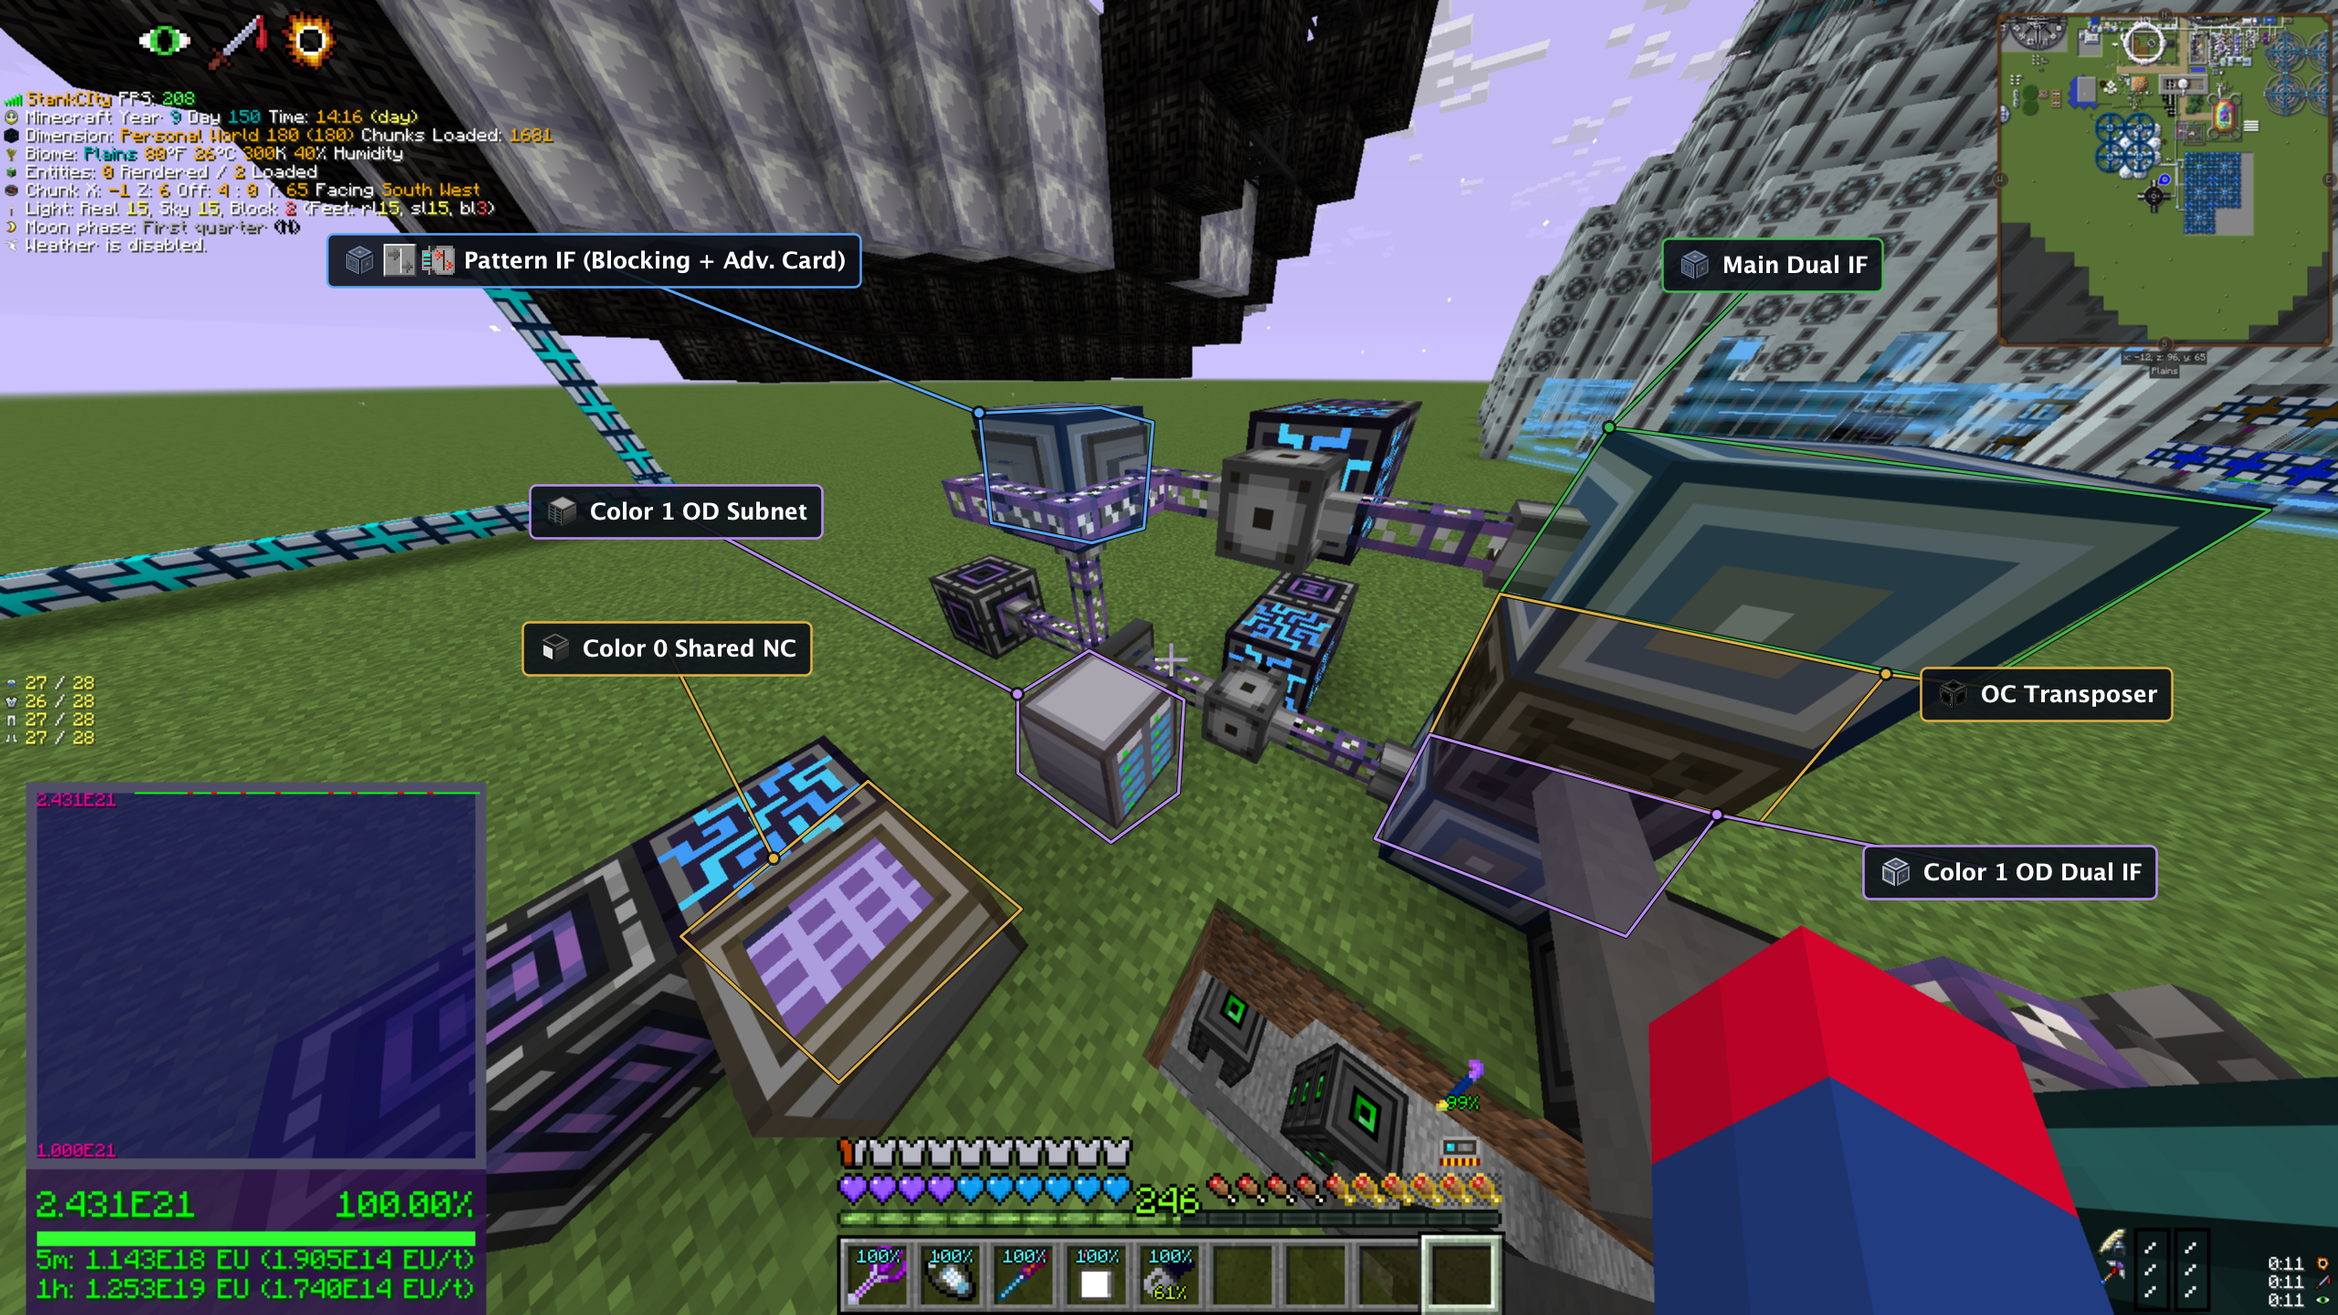
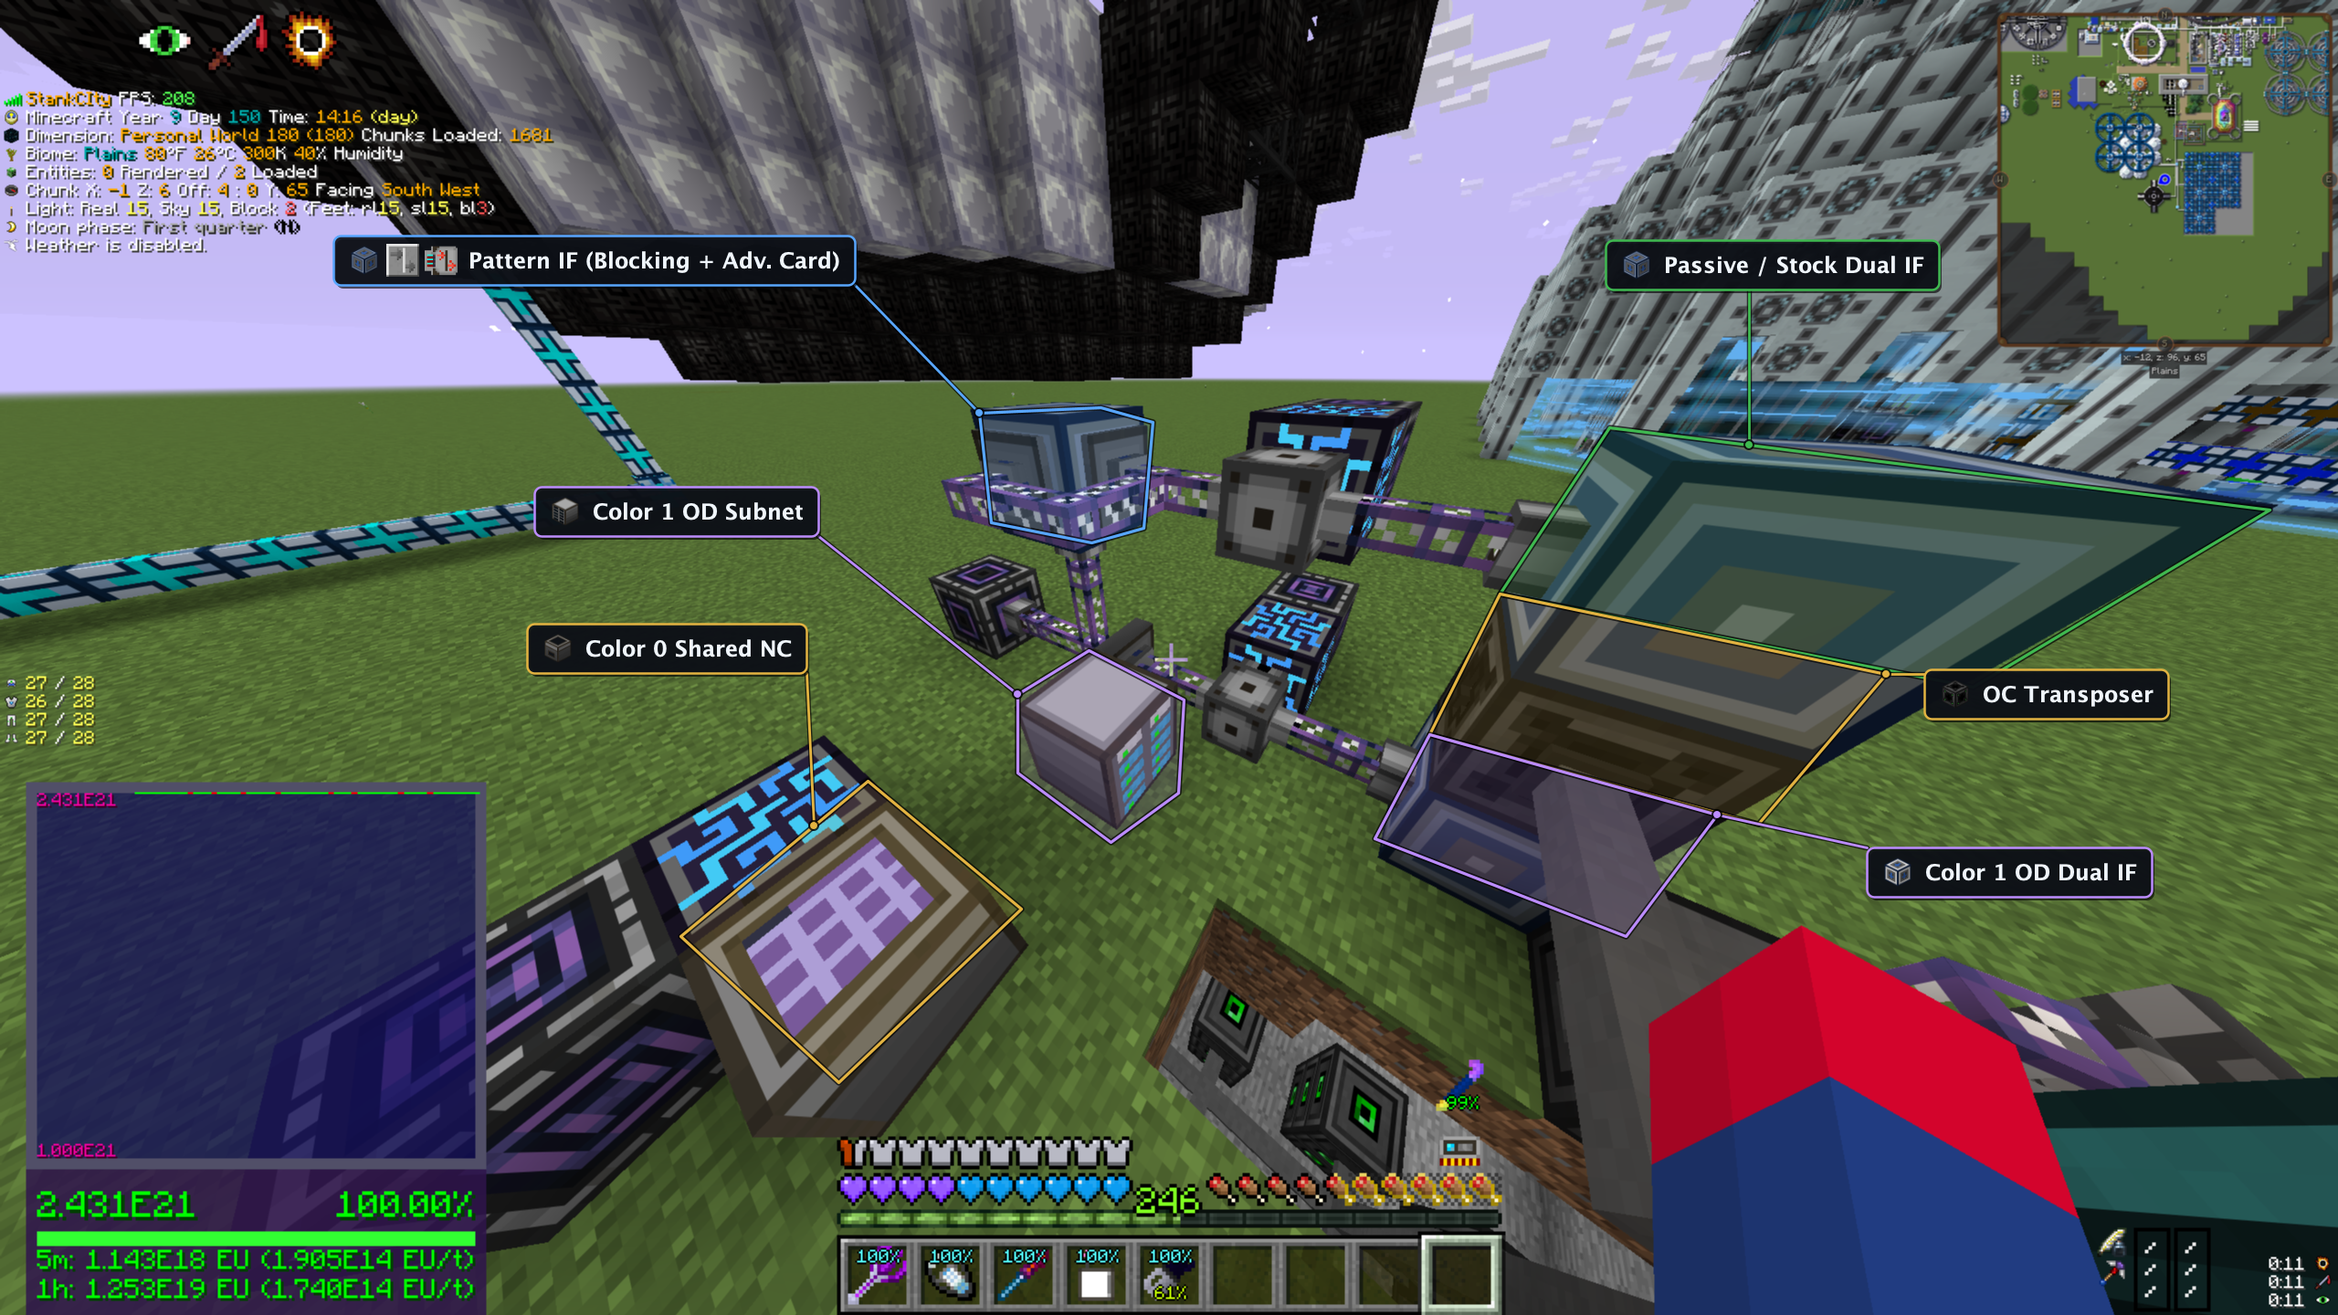
Lead README with core concepts and shared-vs-dedicated breakdown

diff --git a/README.md b/README.md
@@ -1,92 +1,103 @@
-# GTNH DTPF Automation Controller (OpenComputers)
+# GTNH DTPF OpenComputers Controller
 
-A self-configuring **OpenComputers (Lua 5.3 / OpenOS)** controller for automating **Dimensionally Transcendent Plasma Forges (DTPFs)** in **GregTech: New Horizons 2.9+**.
+Autonomous OpenComputers (`Lua 5.3`) controller for **GregTech: New Horizons (GTNH 2.9+)** Dimensionally Transcendent Plasma Forges (**DTPFs**). It dynamically dispatches passive crafting, yields cleanly to AE2 On-Demand crafts, handles catalyst ramp/convergence costs, and scales from 1 DTPF to an entire base from a single UI.
 
-Handles passive AE2 stock targets, 24/7 loops, **AE2 On-Demand autocrafting priority**, optional Convergence automation, Coil Tier & 8h warmup tracking, DTR/catalyst reserve floors, and an optional Transposer catalyst bridge in a 4-tab `160x50` touch GUI.
+### `[1] OVERVIEW` — Global Reserves, Catalyst Tier & Active DTPFs
+![DTPF Control Center Overview tab showing reserve bars and active DTPFs](screenshots/gui_overview.png)
 
-### `[1] OVERVIEW` — Health, Fleet, Queue, Reserves & Activity
-![Overview Tab](screenshots/gui_overview.png)
-
-### `[2] FLEET` — Per-DTPF Cards, Global Policy & Priority Queue
-![Fleet Tab](screenshots/gui_fleet.png)
+### `[2] FLEET` — Per-DTPF Channels, Roles & Live Status
+![DTPF Control Center Fleet tab showing per-unit status and channel bindings](screenshots/gui_fleet.png)
 
 ---
 
-## 1. Install & Update
+## 1. How It Works (Core Concepts)
 
-Run on OpenOS from `/home` with an **Internet Card**:
+The controller keeps **Main AE2**, **On-Demand (`Color 1`)**, **Passive (`Color 2`)**, and **Non-Consumed (`Color 0`)** cleanly separated so AE2 autocrafts never fight passive production:
+
+- **On-Demand Subnet (`Color 1`, White) — Full-Bonus Patterns:**
+  AE2 patterns are encoded at the **full `50%` catalyst bonus** through a Main-to-`Color 1` Pattern `ME Dual Interface` with **`Blocking Mode: ON` + `Advanced Blocking Card`**. Whenever an AE2 craft pushes ingredients onto `Color 1`, OC detects it via an Adapter and pauses/yields passive queues so the DTPF runs the On-Demand craft immediately.
+- **Passive Subnet (`Color 2`, Orange) — Bi-Directional Bridge + OC Hatch Filters:**
+  An unfiltered **Bi-Directional (`Extract + Insert`)** `ME Storage Bus` + `ME Fluid Storage Bus` bridge Main AE2 (via an unfiltered Main `ME Dual Interface`) onto the Passive Subnet (`Color 2`), making all Main AE2 items/fluids visible without creating a storage feedback loop and providing a clean return path back into Main AE2 if anything is returned onto the Passive Subnet. Each DTPF's `Color 2` `Stocking Input Hatch (ME)` and `Stocking Input Bus (ME)` keep **`autoPull = OFF`**, and OC sets each unit's virtual filter slots (`setConfiguration`) so every DTPF pulls only its assigned passive recipe (or clears to empty when idle or yielded).
+- **OC Transposer — Startup / Ramp & Convergence Catalyst:**
+  Because AE2 patterns are encoded at full `50%` catalyst bonus while cold startups, tier upgrades, or Convergence runs need extra catalyst up front, an OC **Transposer** bridges Main AE2 -> `Color 1` Dual Interface to inject the exact catalyst delta automatically.
+- **Non-Consumed Aux (`Color 0`, Unpainted) & Shared Outputs:**
+  All non-consumed items (Programmed Circuits, Lenses, Hypervisors, Cores, Frames/Casings) sit in a shared `Color 0` `Stocking Input Bus (ME)`, while standard `ME Output Hatch/Bus` bricks dump all products straight back into Main AE2.
+
+---
+
+## 2. What Each DTPF Shares vs. Needs Dedicated
+
+Zero OC blocks or cables touch any DTPF. Every MFU (`Upgrade MF`) is bound to the front face with `Sneak + Right-Click` and placed in Adapters back in your OC room (wireless up to `512` blocks).
+
+| Channel / Subsystem | Color | Shared Across DTPFs? | Physical AE2 / GT Hardware | OC Hardware Per DTPF |
+| :--- | :--- | :--- | :--- | :--- |
+| **Outputs** | Default | **Yes (Wallshared)** | Shared `ME Output Hatch` + `ME Output Bus` -> Main AE2 | `0` |
+| **Non-Consumed Aux** | `Color 0` (Unpainted) | **Yes (Wallshared)** | Shared `Stocking Input Bus (ME)` holding NC catalysts/circuits/lenses | `0` |
+| **On-Demand (OD)** | `Color 1` (White) | **Yes (Wallshared) or 1:1** | `Stocking Input Hatch (ME)` + `Stocking Input Bus (ME)` on `Color 1` | `0` per DTPF (`1` Adapter on OD Dual IF, or `1` per OD mini-subnet) |
+| **Passive Channel** | `Color 2` (Orange) | **Dedicated per DTPF** | Dedicated `Stocking Input Hatch (ME)` + `Stocking Input Bus (ME)` (`autoPull = OFF`) | **`3` Wireless MFUs** (`1` Controller + `1` Hatch + `1` Bus) in `3` Adapters |
+
+> Prefer **0 passive MFUs** (or grouping many DTPFs onto shared passive AE2 channels)? Option B uses a Storage-Bus subnet bridge instead of per-DTPF passive MFUs — see [DESIGN.md](DESIGN.md) for the comparison.
+
+---
+
+## 3. Setup Visuals
+
+### Underside Wallsharing — Shared Outputs, Shared `Color 0` NC, `Color 1` OD & `Color 2` Passive
+![Wallshared DTPF underside hatches and buses showing shared outputs, NC, OD, and dedicated passive hatches](screenshots/dtpf_wallsharing_underside.png)
+
+### AE2 Bridge Room — `Color 0` NC, `Color 1` OD Pattern IF + Transposer & Passive / Stock Dual IF
+![AE2 subnet bridge showing Pattern IF with blocking card, OD Dual IF, OC Transposer, and Passive / Stock Dual IF](screenshots/ae2_subnets_and_bridge.png)
+
+### OC Wireless MFU Room — `3` MFU Adapters per DTPF + Passive / OD Dual-IF Adapters
+![OC adapter room showing stacks of 3 MFU adapters per DTPF and cable back to server rack](screenshots/oc_wireless_mfu_room.png)
+
+---
+
+## 4. Install & First Boot
+
+Requires **Lua 5.3** (`Sneak + Right-Click` a **Tier 3 CPU / APU Tier 3**), **`2x Memory (Tier 3.5)`**, **`HDD Tier 2 (2 MB)`**, and an **Internet Card** (or `--local` for offline/floppy installs).
 
 ```sh
 wget -f https://raw.githubusercontent.com/Jimbo-Coder/gtnh-dtpf-control/main/install.lua && install
 ```
 
-- **Safe update (settings untouched):** `dtpf --update` stages files as `.tmp`, validates syntax with `load()`, and aborts cleanly on error.
-- **Survives folder wipes:** Settings save to `/home/dtpf/config.cfg` and auto-mirror to `/home/config.dtpf.bak` (restored automatically on reinstall).
-- **No Internet Card:** Copy the repo folder to OpenOS (e.g. `/home/dtpf_src`) and run `/home/dtpf_src/install.lua --local /home/dtpf_src`.
+1. Run `dtpf` (starts **PAUSED** on fresh config so nothing runs unconfigured).
+2. Open **`Tab 4 (SETUP)`** and click **`[ 1:1 PAIR DTPFS ]`** (and **`[ 1:1 PAIR OD ]`** if using separate OD subnets) — OC auto-pairs Controllers, Hatches, and Buses by 3D coordinates.
+3. Verify readouts via `dtpf --check`, then click **`[ARM / RESUME]`** to begin autonomous scheduling.
+
+Useful CLI commands:
+- `dtpf` — Launch 160x50 Control Center GUI
+- `dtpf --check` — Read-only hardware, AE2 stock, and scheduler dry-run check
+- `dtpf --lock` — Force `autoPull = OFF` on all passive `Stocking Input Hatch/Bus (ME)`
+- `dtpf --worker` — Run headless Relay Mode worker daemon on additional servers
+- `dtpf --update` — Pull updates from GitHub while backing up and preserving `/home/dtpf/config.cfg`
 
 ---
 
-## 2. OC Requirements & DTPF Scaling
+## 5. OC Scaling & DTPF Limits
 
-**Minimum OC parts:** **Tier 3 CPU (or APU) in Lua 5.3** (`Sneak + Right-Click` in hand), **`2x` Memory Tier 3.5**, **HDD Tier 2 (`2 MB`) + OpenOS**, **Tier 3 GPU + Screen (`160x50`)**, optional **Internet Card**.
+Because each DTPF uses `3` components in 1:1 MFU mode (Controller + Passive Hatch + Passive Bus) alongside shared adapters and system components:
 
-| OC Setup | Component Limit | Max DTPFs (`3` MFUs/DTPF) | Notes |
+| OC Hardware Tier | Component Budget | Practical DTPF Limit | How It Scales |
 | :--- | :--- | :--- | :--- |
-| **Tier 3 Computer Case** | `16` | **Up to `2` DTPFs** | Starter case (`6` DTPF MFUs + display/HDD/AE2). |
-| **1x Tier 3 Server** *(in a Rack)* | `64` *(w/ 3x Bus T3)* | **Up to `~18` DTPFs** | Single-server sweet spot (`54` DTPF MFUs + AE2/screen). |
-| **1x Full Server Rack** *(1 Master + 3 `--worker` Servers)* | `4 x 64 = 256` | **Up to `~78` DTPFs from 1 Rack** | Keep each Server's Adapter I/O face separate; link only their Network Card lines via **Rack Relay Mode** (`+20` DTPFs per headless `--worker`). |
-| **Multiple Server Racks** | `+256` / Rack | **`80–150+` DTPFs** | Already supported: bridge Rack Relay faces over an OC Cable (see [`DESIGN.md`](DESIGN.md)). |
+| **Tier 3 Case** | `16` components | **Up to `2` DTPFs** | Single computer case setup |
+| **1x Server (Comp. Bus T3)** | `64` components | **Up to `~18` DTPFs** | Single server in a Server Rack |
+| **1x Full Server Rack** | `4x 64` (Relay Mode) | **Up to `~78` DTPFs** | `1` GUI coordinator + `3` headless `dtpf --worker` servers inside one rack (enable **Relay Mode** in the Rack GUI) |
+| **Multi-Rack (OC Cable)** | Unlimited racks (`port 4104`) | **`80–150+` DTPFs** | Chain extra Server Racks running headless `dtpf --worker` servers over normal OC cables; the coordinator discovers them automatically |
 
 ---
 
-## 3. Simple Physical Setup
+## 6. Convergence Control
 
-Everything is auto-discovered by component type and 3D coordinates — **no manual UUID config needed**.
-
-1. **`Color 2` (Orange) — Passive (`1` Stocking Hatch + `1` Stocking Bus per DTPF, never wallshared):**
-   Wire straight to your **Main AE2 net** (`autoPull = OFF` — run `dtpf --lock` before connecting). Bind **`3` Wireless MFUs** per DTPF (`Controller` + `Color 2 Hatch` + `Color 2 Bus`) and put them in Adapters back at your OC Rack (`0` OC blocks touching your DTPFs).
-2. **`Color 1` (White) — On-Demand AE2 Patterns *(wallsharable)*:**
-   Main AE2 Pattern Dual Interface (**`Blocking Mode: ON` + `Advanced Blocking Card`**) pushing into an isolated **Color 1** subnet feeding `Color 1` Stocking Hatch + Bus on the DTPFs. Whenever an AE2 craft enters `Color 1`, OC automatically pauses passives so your pattern runs next.
-3. **`Color 0` (Unpainted) — Shared Non-Consumed Items *(wallsharable)*:**
-   Small unpainted subnet holding shared Programmed Circuits, Lenses, Hypervisor Matrices, Hi-Computation Station T5, and Bending Cores.
-4. **AE2 Readers (+ Optional Transposer Catalyst Bridge):**
-   Put `1` Adapter/MFU on an unfiltered **Main Dual IF** (reads stocks) and `1` on the **Color 1 OD Dual IF** (detects crafts). Optionally sandwich `1` **OC Transposer** between them so OC tops up catalysts automatically for patterns without catalyst fluids.
-
-![AE2 Subnets and Transposer Bridge](screenshots/ae2_subnets_and_bridge.png)
-![DTPF Wallsharing Layout](screenshots/dtpf_wallsharing_underside.png)
-![Wireless MFU Adapter Room](screenshots/oc_wireless_mfu_room.png)
+Full automated Tier 2 **Catalyst Convergence** control (`isConvergence`, target catalyst / convergence tier management) uses [`DriverDTPF` (GTNewHorizons/OpenComputers#228)](https://github.com/GTNewHorizons/OpenComputers/pull/228). If that PR is not yet included in your GTNH build, the controller still installs cleanly and falls back gracefully to standard Tier 0/1 scheduling with read-only convergence visibility where supported.
 
 ---
 
-## 4. First Boot
+## 7. Logs, Tooling & Docs
 
-```sh
-dtpf --lock    # Locks autoPull = OFF on passive Stocking Hatches/Buses
-dtpf --check   # Read-only Raw Inputs -> Decisions -> Outputs diagnostic
-dtpf           # Launch 160x50 GUI (starts safely in PAUSED mode)
-```
+![DTPF Control Center live log modal showing recent scheduling events](screenshots/gui_log_modal.png)
 
-Verify **`[4] SETUP`** shows `[OK]`, set stock targets in **`[3] RECIPES`** / **`[2] FLEET`**, then click **`[○ PAUSED: SAFE]` -> `[● ARMED: AUTO]`**.
-
----
-
-## 5. Convergence Control (Stock GTNH 2.9 vs. OC PR #228)
-
-- **Stock GTNH 2.9 (`gt_machine`):** Works out of the box — full passive scheduling, On-Demand priority, Work control, Coil/Warmup tracking, and live Convergence status reading (toggle Convergence manually inside the DTPF GUI).
-- **Automated Convergence & Catalyst Tier switching (`Auto @50%`, `Always`, `OFF`):** Supported automatically when using an OpenComputers build with **[GTNewHorizons/OpenComputers#228](https://github.com/GTNewHorizons/OpenComputers/pull/228)** (`DriverDTPF`).
-
----
-
-## 6. UI, Logs & Tooling
-
-- **4 Tabs (`[1-4]`):** **`[1] OVERVIEW`** · **`[2] FLEET`** · **`[3] RECIPES`** (27 deduplicated families) · **`[4] SETUP`** (`[1:1 PAIR DTPFS]`, `[1:1 PAIR OD]`, Reserve Floors).
-- **`[Log]` (`[L]`):** Structured **`[IN ]` / `[DEC]` / `[OUT]` / `[WRN]`** Activity Log + live **`Raw I/O Snapshot`** inspector with **`[Quiet]` / `[Normal]` / `[Raw]`** verbosity (`[V]`).
-
-![Activity Log Modal](screenshots/gui_log_modal.png)
-
-| Resource | Purpose |
-| :--- | :--- |
-| [`DESIGN.md`](DESIGN.md) | Multi-server / Multi-Rack wiring, Storage-Bus subnet alternative, full UI/hotkey & scheduler docs. |
-| [`lib/recipes_db.lua`](lib/recipes_db.lua) / [`tools/extract_dtpf_recipes.py`](tools/extract_dtpf_recipes.py) | Compiled manifest + bytecode extractor for all `78` GTNH 2.9 DTPF recipes across `27` families. |
-| [`tools/test_offline.py`](tools/test_offline.py) | `19`-suite offline Lua 5.3 + `JNLua` regression test, width-1 Unifont glyph audit & memory check. |
-| [`LICENSE`](LICENSE) | MIT License. |
+- **[DESIGN.md](DESIGN.md)** — Full hardware tables, Option A vs. Option B bridge notes, scheduler math, catalyst policy, and multi-rack protocol details.
+- **`tools/test_offline.py`** — Offline Lua 5.3 + JNLua heap & UI test suite.
+- **`tools/extract_dtpf_recipes.py`** — GTNH recipe extractor feeding `lib/recipes_db.lua`.
+- **License:** [MIT](LICENSE)

diff --git a/DESIGN.md b/DESIGN.md
@@ -49,7 +49,9 @@ An **MFU (`Upgrade MF`)** is an item slotted inside an OC `Adapter` back in your
            └──► Color 2 Subnet ──► DTPF Stocking Input Hatch/Bus (ME) [autoPull=ON]
 ```
 
-> **Note on "OC Read Subnet" vs. Direct Main Net Interface:** If you already have an unfiltered OC Read Subnet fed by `Main Net Dual Interface -> Extract-Only Item+Fluid Storage Buses -> OC Subnet -> Adapter on OC Subnet Dual Interface`, that works fine as the **Main Net Stock Reader** because nothing filters its Storage Buses. Keep it separate from any Option B passive Storage Buses.
+> **Note on Passive / "OC Read" Subnet (`Extract + Insert` vs. Option B):**
+> - On a shared **Passive / Stock Subnet** (such as an unfiltered `Color 2` subnet bridged from a `Main Net Dual Interface -> Item + Fluid Storage Buses -> Subnet -> DTPF Stocking Hatch/Bus [autoPull=OFF]` and/or `Adapter on Subnet Dual IF`), setting those unfiltered Storage Buses to **Bi-Directional (`Extract + Insert`)** exposes Main AE2 stock without creating a storage feedback loop (`DualityInterface` uses `MEMonitorPassThrough`), and provides a clean return path back into Main AE2 if anything is ever returned onto the Passive Subnet.
+> - Keep **Option B** per-channel *filtered* passive Storage Buses `Extract Only` and separate from your unfiltered Passive / Stock Reader subnet.
 
 - **Storage Bus Shadowing Rule (Option B — 2 Separate Cable Blocks):** Never place `ME Storage Bus` and `ME Fluid Storage Bus` on the same AE2 cable block (`CompoundBlockDriver` merges them and `fluid_storagebus` `priority=2` shadows `me_storagebus` `priority=1`). Put them on 2 adjacent/separate cable blocks touching the Adapter.
 - **ME Dual Interface Detection (`"fluid_interface"`):** In GTNH 2.9.0 (`ae2fc-1.5.116-gtnh` + `OpenComputers-1.12.68-GTNH`), AE2FC's `TileFluidInterface` extends AE2 `TileInterface`, so OC exposes full `NetworkControl` (`getItemsInNetwork` + `getFluidsInNetwork`) under component type `"fluid_interface"`. `Hardware.discoverAENetworks()` scans `"me_interface"`, `"fluid_interface"`, and `"me_controller"`.
